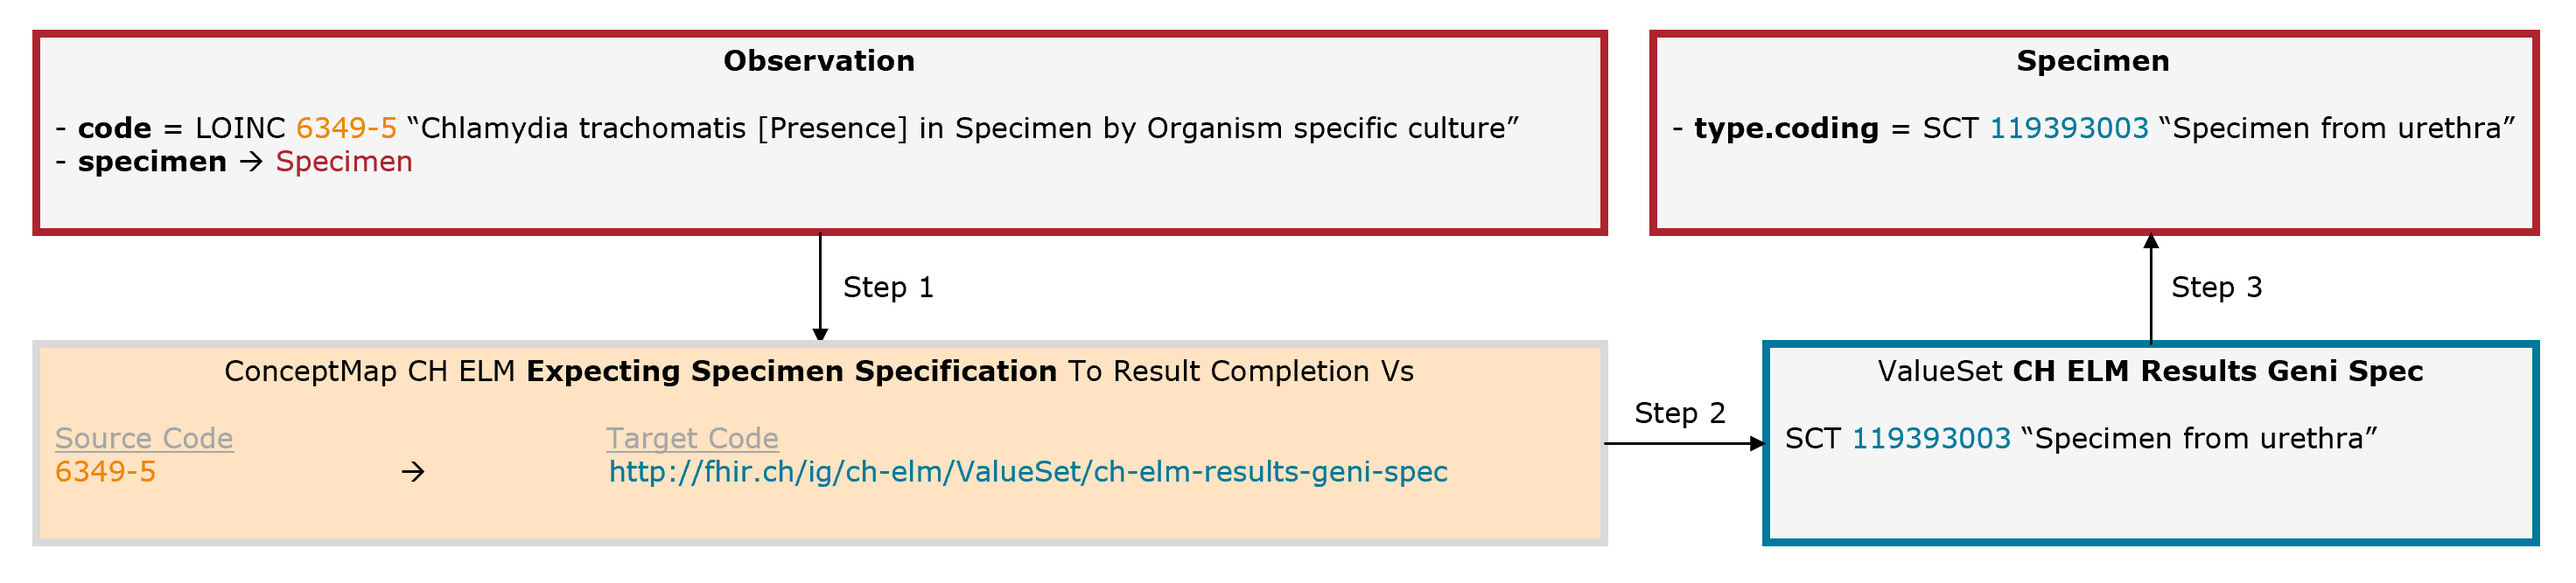
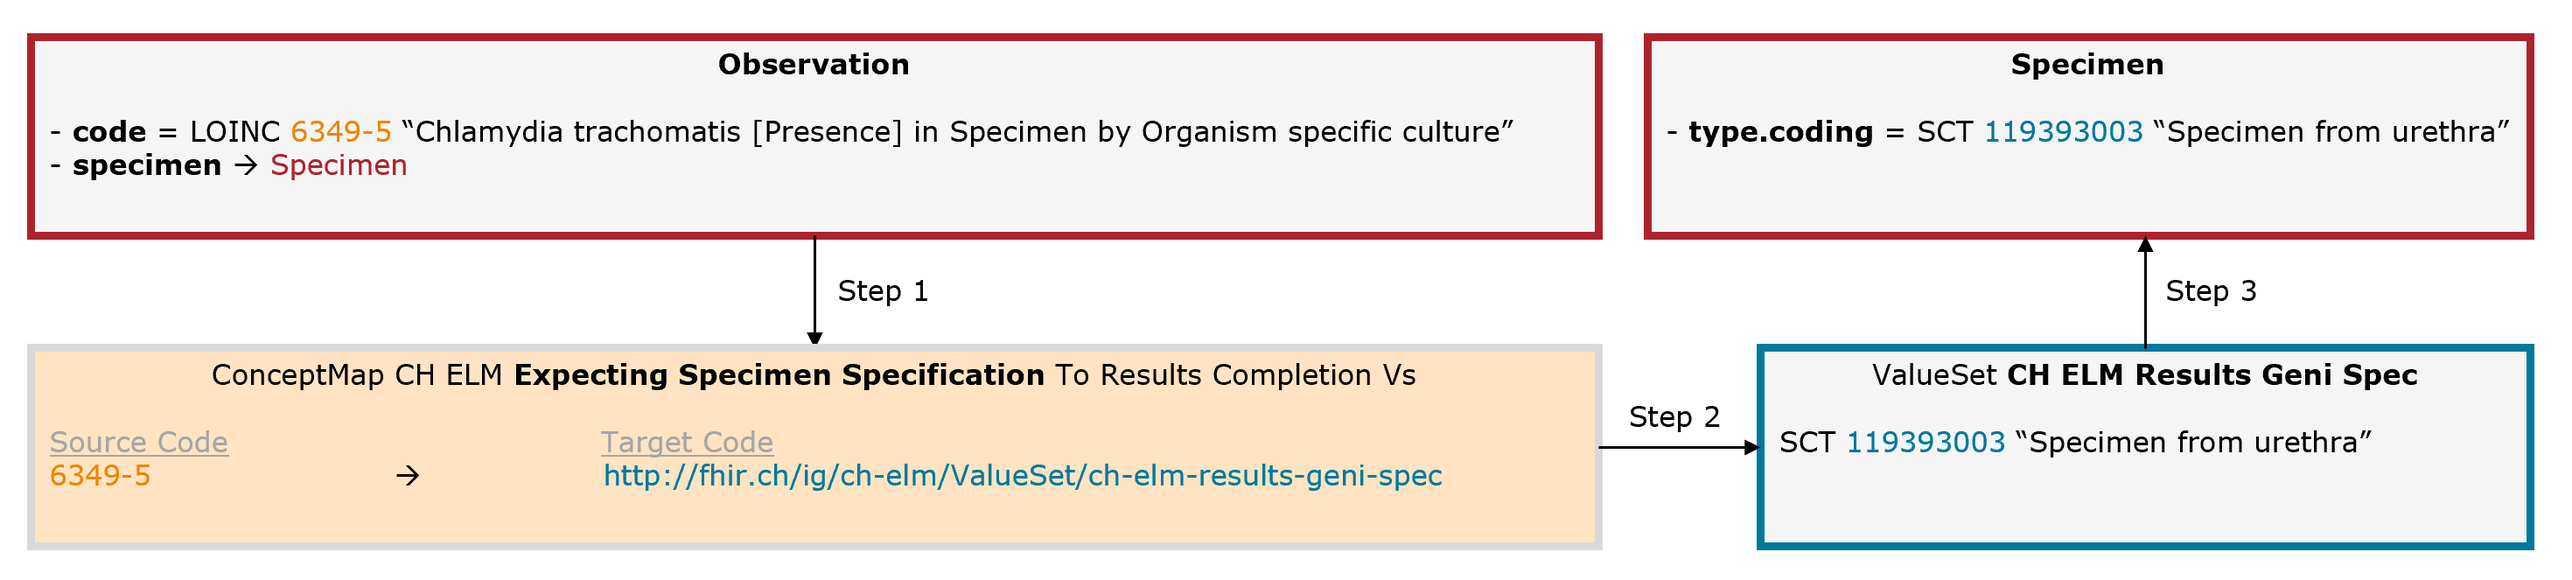
unify spelling

diff --git a/input/pagecontent/guidance.md b/input/pagecontent/guidance.md
@@ -58,7 +58,7 @@ In some cases, the collection material must be explicitly specified.
 
 [Example Chlamydia trachomatis](Bundle-2Doc-ChlamydiaTrachomatis.html): The leading code (Observation.code = LOINC 6349-5) is completed by an additional code for the collection material (Specimen.type = SNOMED CT 119393003).
 
-1. Check if Observation.code is a member of the ConceptMap [CH ELM Expecting Specimen Specification To Result Completion Vs](ConceptMap-ch-elm-expecting-specimen-specification-to-result-completion-vs.html) (Source Code)
+1. Check if Observation.code is a member of the ConceptMap [CH ELM Expecting Specimen Specification To Results Completion Vs](ConceptMap-ch-elm-expecting-specimen-specification-to-results-completion-vs.html) (Source Code)
    * NO: Observation.code does cover all axes, see section [Leading Code](#leading-code)
    * YES: The collection material must be explicitly specified, continue with step 2
       * Example Chlamydia trachomatis: LOINC 6349-5 is a member of the ConceptMap 
@@ -74,7 +74,7 @@ In some cases, an additional organism must be specified.
 
 [Example Carbapenemase-producing Enterobacteriaceae (CPE)](Bundle-3Doc-CPE.html): The leading code (Observation.code = LOINC 85827-4) is completed by an additional code for the organism (Observation.valueCodeableConcept = SNOMED CT 56415008).
 
-1. Check if Observation.code is a member of the ConceptMap [CH ELM Expecting Organism Specification To Result Completion Vs](ConceptMap-ch-elm-expecting-organism-specification-to-result-completion-vs.html) (Source Code)
+1. Check if Observation.code is a member of the ConceptMap [CH ELM Expecting Organism Specification To Results Completion Vs](ConceptMap-ch-elm-expecting-organism-specification-to-results-completion-vs.html) (Source Code)
    * NO: Observation.code does cover all axes, see section [Leading Code](#leading-code)
    * YES: An additional code for the organism must be specified, continue with step 2
       * Example Carbapenemase-producing Enterobacteriaceae (CPE): LOINC 85827-4 is a member of the ConceptMap 
